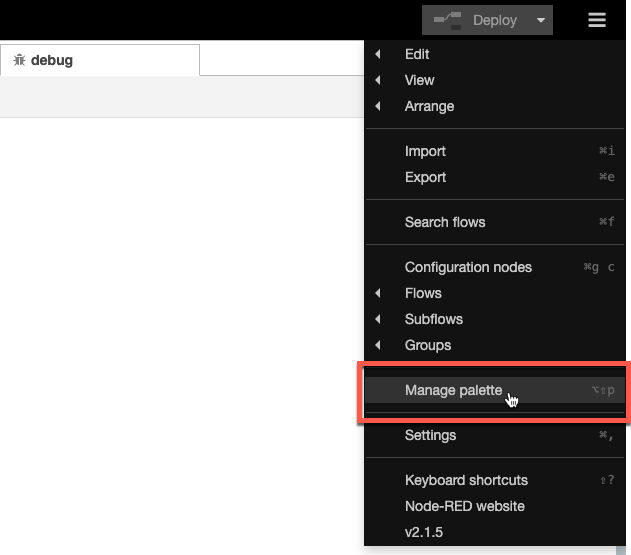
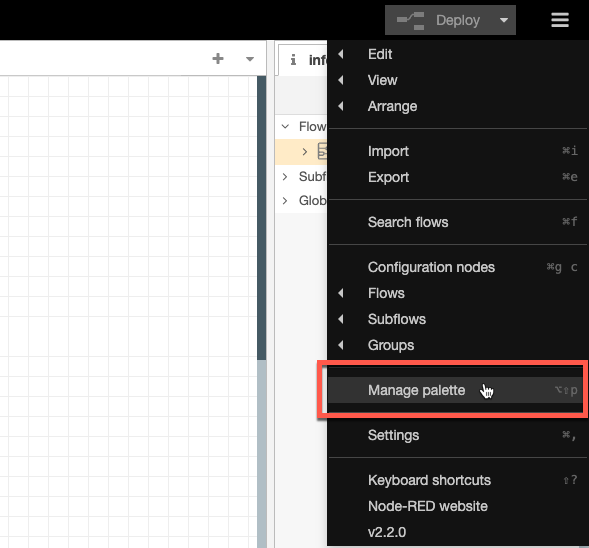
setup exercise is done and get is begun

Changed region(s): [[0.0, 0.0, 1.0, 1.0]]

diff --git a/MkDocs/monitor_csv_importer_8.6/docs/get_script.md b/MkDocs/monitor_csv_importer_8.6/docs/get_script.md
@@ -1,5 +1,49 @@
 # Objectives
 In this Exercise you will learn how to:
 
-* Do something
-* Do something more
+* Get the required Node-RED script
+* Import the script into Node-RED
+
+---
+*Before you begin:*  
+This Exercise requires that you have:
+
+1. completed the pre-requisites required for [all labs](../prereqs)
+2. completed the [setup of Node-RED locally](../setup)
+ 
+---
+##  Get the required Node-RED script
+
+1.  Open a browser and navigate to [monitor_csv_importer github repository](https://github.com/ekstrom-ibm/monitor_csv_importer){target=_blank}.
+2.  Click on the green `Code` button and select `Download ZIP`.
+![Download Github Repo](/img/monitor_csv_importer_8.6/Get_01.png)</br></br>
+3.  Save it in your Downloads directory.
+4.  Extract the ZIP file (double-click on Mac) and you will have a directory with the files you need:
+![View files](/img/monitor_csv_importer_8.6/Get_02.png)</br></br>
+
+!!! tip 
+    You can Right-Click on the images in this lab and select `Open Image in New Tab` </br>
+    to view the details in the screen shots:</br></br>
+    ![View details](/img/monitor_csv_importer_8.6/Get_03.png)</br></br>
+
+
+##  Import the script into Node-RED
+
+Now it is time to import the downloaded Node-RED script.
+
+1.  Start the Node-RED instance if not already done (in a CMD/Terminal/iTerm window).
+![Start Node-RED](/img/monitor_csv_importer_8.6/Import_01.png)</br></br>
+2.  Open the browser and navigate to [localhost:1880](http://localhost:1880){target=_blank}.
+3.  Click on the burger menu in upper right hand corner and select `Import`.
+![Select Import](/img/monitor_csv_importer_8.6/Import_02.png)</br></br>
+4.  Click on `select a file to import`.
+![Select File](/img/monitor_csv_importer_8.6/Import_03.png)</br></br>
+5.  Select the `Upload CSV to Db2 Pump.json`and click Open.
+![Open File](/img/monitor_csv_importer_8.6/Import_04.png)</br></br>
+6.  Click `Import`.
+![Import File](/img/monitor_csv_importer_8.6/Import_05.png)</br></br>
+
+
+---
+Congratulations you have successfully downloaded and imported the Node-RED script.</br>
+You will now be able to adjust the Node-RED script to your environment.

diff --git a/MkDocs/monitor_csv_importer_8.6/docs/setup.md b/MkDocs/monitor_csv_importer_8.6/docs/setup.md
@@ -6,20 +6,39 @@ In this Exercise you will learn how to:
 
 ---
 *Before you begin:*  
-This Exercise requires that you:
+This Exercise requires that you have:
 
-1. Have completed the pre-requisites required for [all labs](../facilitator_instructions#all-exercises)
+1. completed the pre-requisites required for [all labs](../prereqs)
  
 ---
 ##  Install Node-RED locally
 
 This is a fairly easy step, as you just have to follow this guide:
-[Running Node-RED locally](https://nodered.org/docs/getting-started/local)
+[Running Node-RED locally](https://nodered.org/docs/getting-started/local){target=_blank}</br>
 
-It will work for Mac, Windows, and various Linux distributions - but I used a local nmp installed version of Node-RED on my Mac.
+It will work for Mac, Windows, and various Linux distributions.
+I used a local nmp installed version of Node-RED on my Mac.
 
 ##  Add required additional nodes
 
+Before loading the Node-RED script you need to add the required additional node libraries.
+Node-RED library dependencies:</br>
+- node-red-dashboard</br>
+- node-red-contrib-ui-upload</br>
+- node-red-contrib-chunks-to-lines</br>
+- node-red-nodes-cf-sqldb-dashdb</br>
+
+1. Click on the burger menu in upper right hand corner and select `Manage palette`.
+![Manage palette](/img/monitor_csv_importer_8.6/Setup_01.png)</br></br>
+2. Click on `Install` and write `node-red-dashboard`in the Search field - then click on `Install`.
+![Install node-red-dashboard](/img/monitor_csv_importer_8.6/Setup_02.png)</br></br>
+3. Click on `Install` again.
+![Install node-red-dashboard](/img/monitor_csv_importer_8.6/Setup_03.png)</br></br>
+4. Wait until you see the new nodes have been installed.
+![Install node-red-dashboard](/img/monitor_csv_importer_8.6/Setup_04.png)</br></br>
+5. Repeat step 2-4 for the other 3 libraries.
+
 
 ---
-Congratulations you have successfully installed and prepared a local instance of Node-RED. You will now be able to get and load the Node-RED script.
+Congratulations you have successfully installed and prepared a local instance of Node-RED.</br>
+You will now be able to get and load the Node-RED script.

diff --git a/MkDocs/monitor_csv_importer_8.6/docs/adjust_script.md b/MkDocs/monitor_csv_importer_8.6/docs/adjust_script.md
@@ -1,5 +1,25 @@
 # Objectives
 In this Exercise you will learn how to:
 
-* Do something
-* Do something more
+* Adjust the required Node-RED script
+* Verify the script
+
+---
+*Before you begin:*  
+This Exercise requires that you:
+
+1. Have completed the pre-requisites required for [all labs](../prereqs)
+2. Have completed the [setup of Node-RED locally](../setup)
+3. Have [imported the Node-RED scripot](../get_script)
+ 
+---
+##  Adjust the required Node-RED script
+
+
+
+##  Verify the script
+
+
+---
+Congratulations you have successfully adjusted and prepared your script.</br>
+You will now be able to start the import of the CSV files.
